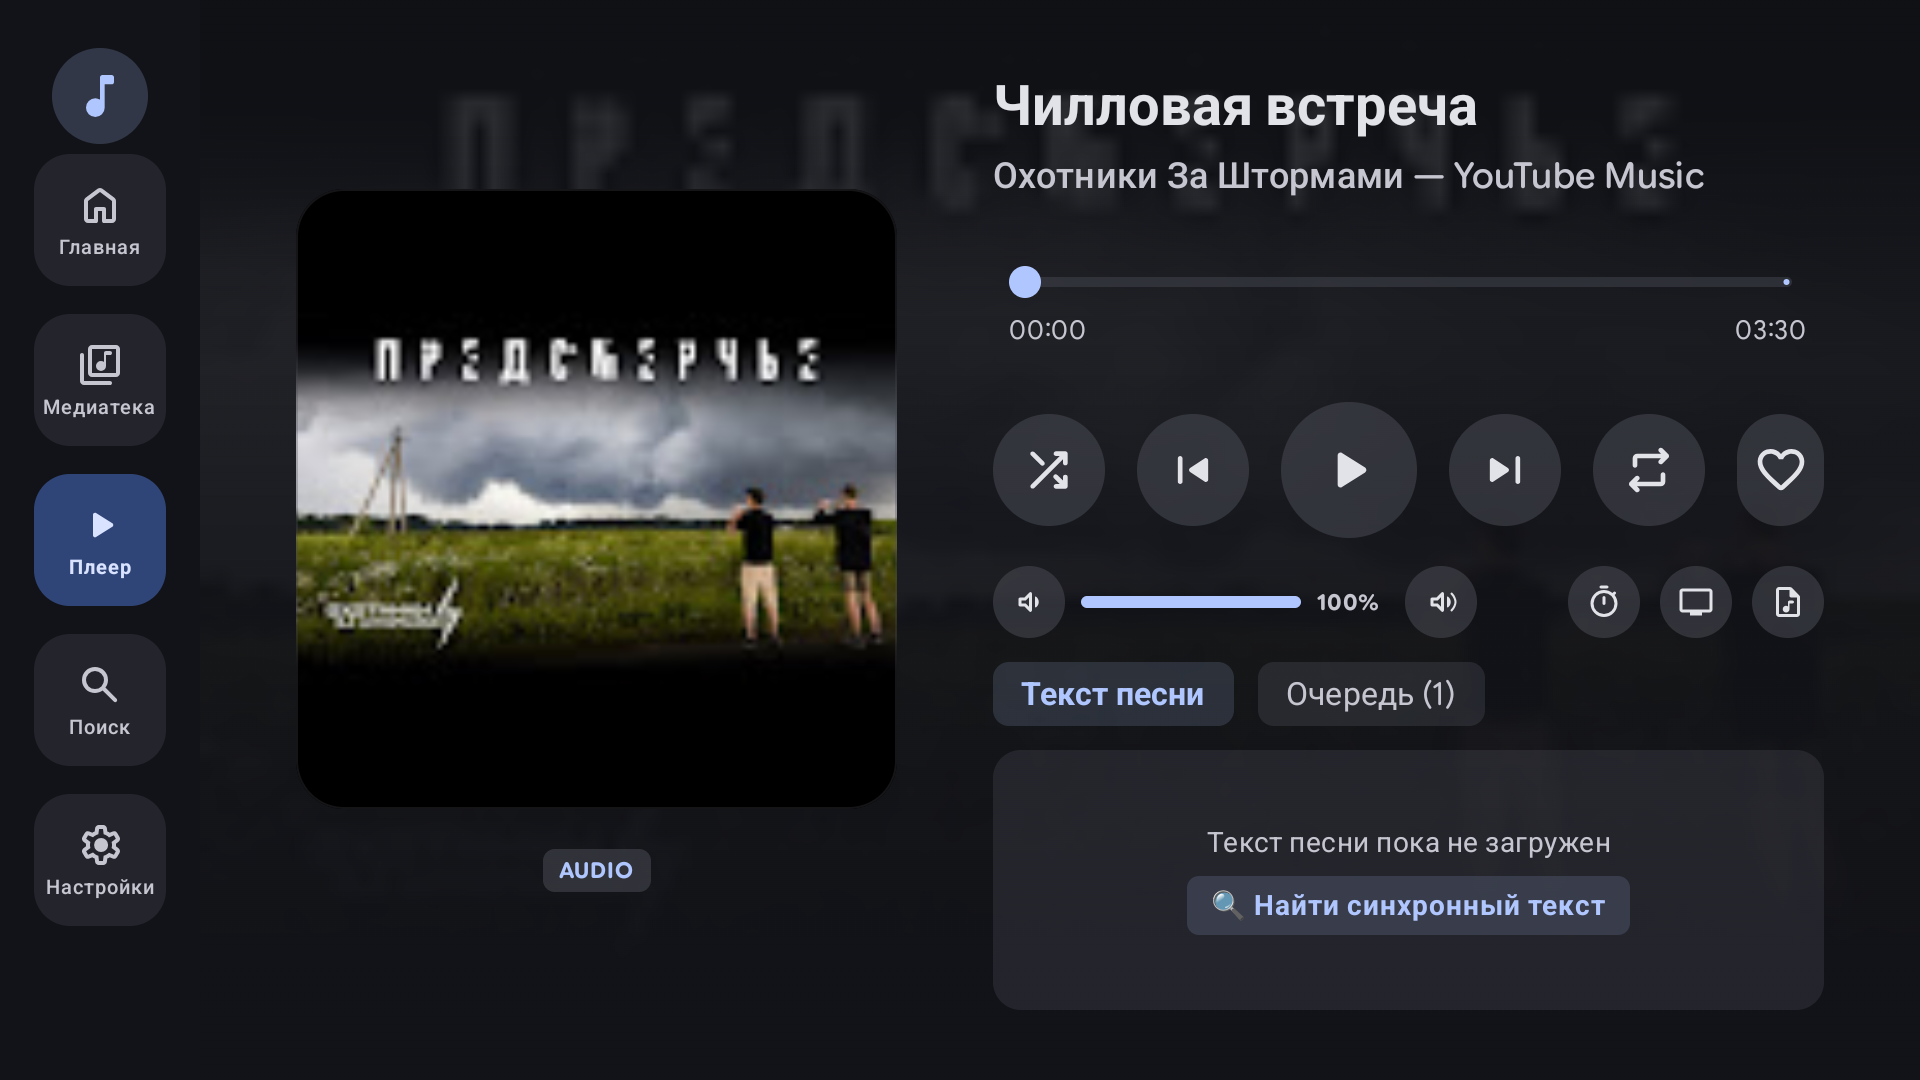
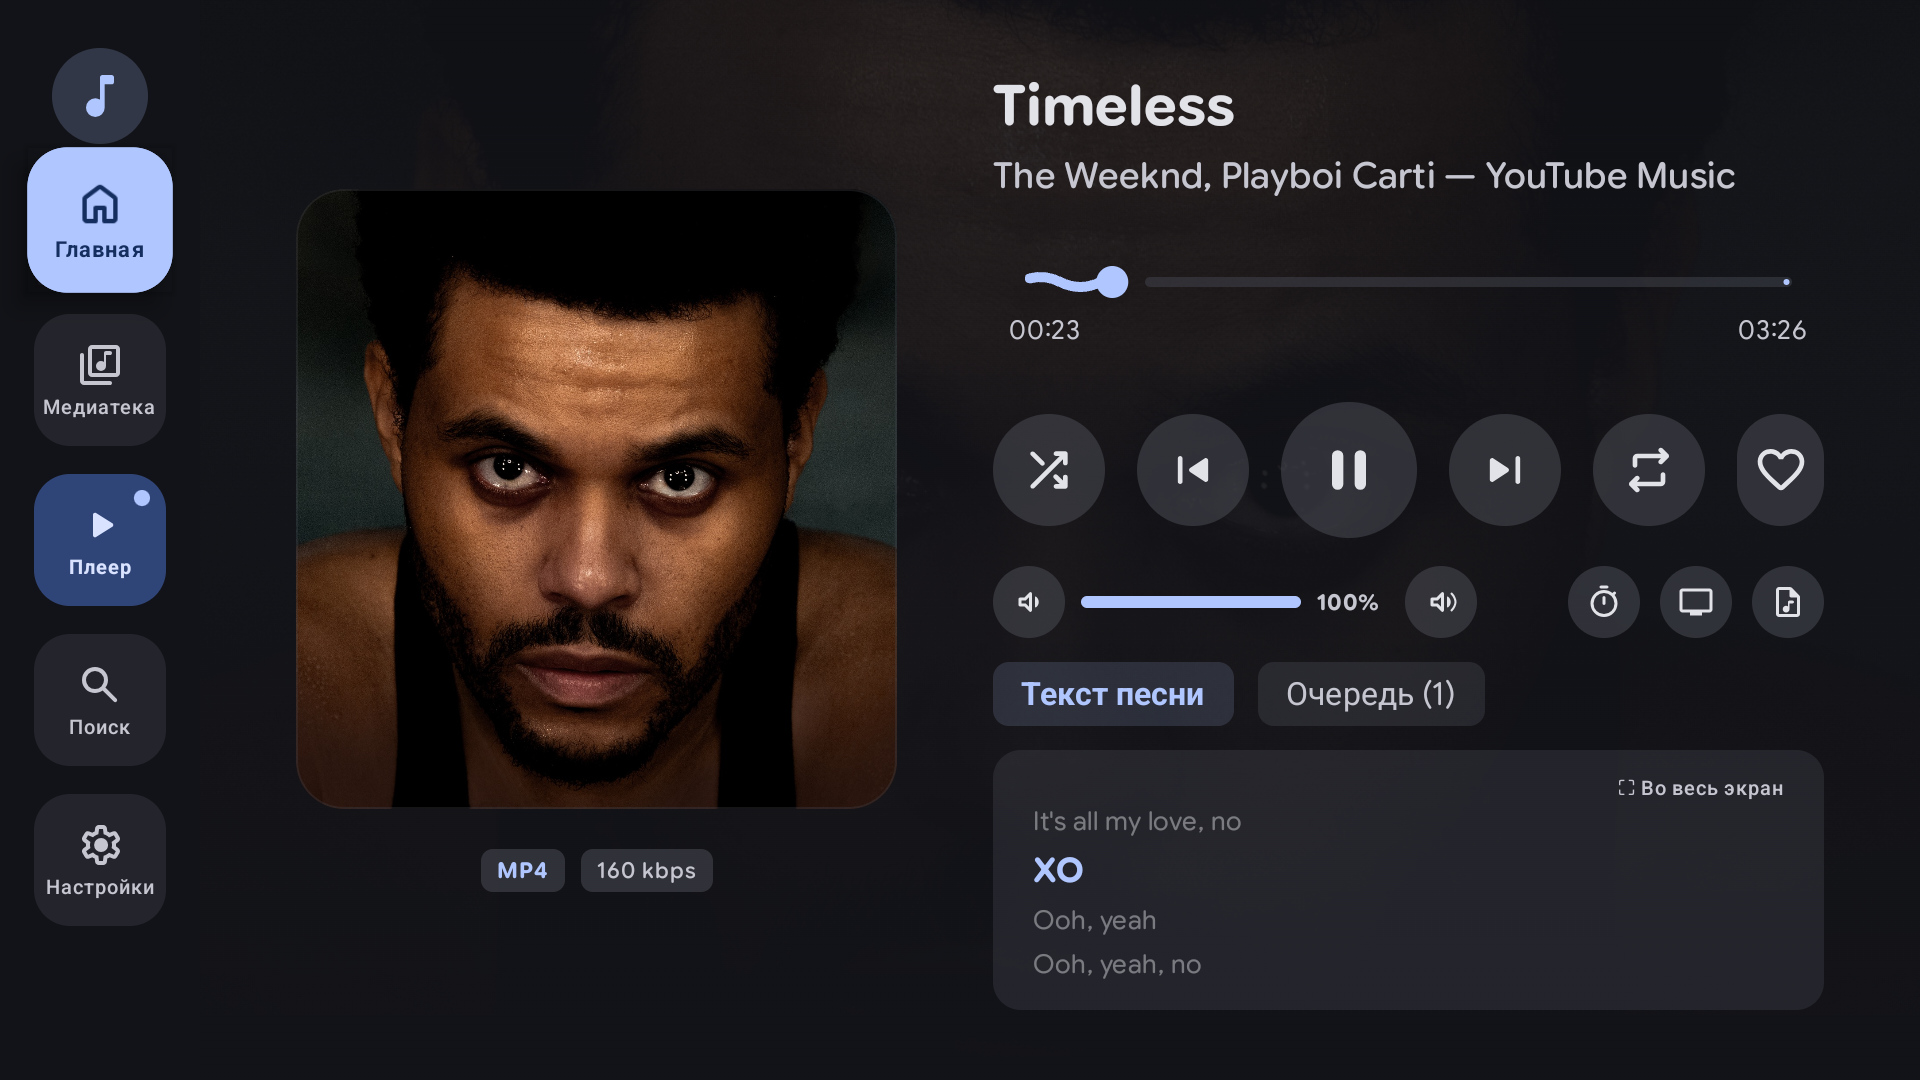
feat(artwork): Implement StudioArtworkResolver for official Apple Music & Deezer covers
- Add StudioArtworkResolver to query pristine 1400x1400 square studio covers from Apple Music/iTunes and Deezer
- Replace ugly 16:9 YouTube video thumbnails, text stills, and letterboxed video frames
- Integrate studio artwork into InnerTubeParser, MultiSourceAudioEngine, and QR transfer previews
- Update Now Playing screenshot (02_now_playing.png) with master studio artwork
- Update README documentation with Studio Master Album Covers section

diff --git a/app/src/main/java/com/unshoo/pixelmusic/data/network/artwork/StudioArtworkResolver.kt b/app/src/main/java/com/unshoo/pixelmusic/data/network/artwork/StudioArtworkResolver.kt
@@ -1,0 +1,123 @@
+package com.unshoo.pixelmusic.data.network.artwork
+
+import com.google.gson.JsonParser
+import kotlinx.coroutines.Dispatchers
+import kotlinx.coroutines.withContext
+import okhttp3.OkHttpClient
+import okhttp3.Request
+import timber.log.Timber
+import java.net.URLEncoder
+import java.util.concurrent.ConcurrentHashMap
+import java.util.concurrent.TimeUnit
+import javax.inject.Inject
+import javax.inject.Singleton
+
+/**
+ * High-resolution studio album artwork resolver.
+ * Fetches pristine square studio album artwork (up to 1400x1400px) from Apple Music / iTunes Store
+ * and Deezer APIs, replacing video frames, 16:9 thumbnails, and lyric video stills.
+ */
+@Singleton
+class StudioArtworkResolver @Inject constructor(
+    private val okHttpClient: OkHttpClient
+) {
+    companion object {
+        private const val TAG = "StudioArtwork"
+        private const val USER_AGENT = "Mozilla/5.0 (Windows NT 10.0; Win64; x64) AppleWebKit/537.36 (KHTML, like Gecko) Chrome/120.0.0.0 Safari/537.36"
+    }
+
+    private val client: OkHttpClient = okHttpClient.newBuilder()
+        .connectTimeout(4, TimeUnit.SECONDS)
+        .readTimeout(4, TimeUnit.SECONDS)
+        .build()
+
+    private val cache = ConcurrentHashMap<String, String>()
+
+    /**
+     * Resolves pristine, high-resolution official studio album artwork (1400x1400px).
+     * Priority:
+     * 1. Apple Music / iTunes Store API (1400x1400px master artwork)
+     * 2. Deezer API (1000x1000px studio album art)
+     * 3. Fallback to provided artwork URL
+     */
+    suspend fun resolveStudioArtwork(
+        title: String,
+        artist: String,
+        fallbackUrl: String? = null
+    ): String = withContext(Dispatchers.IO) {
+        val cleanT = cleanSearchTerm(title)
+        val cleanA = cleanSearchTerm(artist.split(',', '&', '/').firstOrNull() ?: artist)
+
+        if (cleanT.isBlank()) return@withContext fallbackUrl.orEmpty()
+
+        val cacheKey = "${cleanA.lowercase()}_${cleanT.lowercase()}"
+        cache[cacheKey]?.let { return@withContext it }
+
+        val query = "$cleanA $cleanT".trim()
+
+        // Tier 1: Apple Music / iTunes Store API (1400x1400px master square artwork)
+        try {
+            val encodedQuery = URLEncoder.encode(query, "UTF-8")
+            val itunesUrl = "https://itunes.apple.com/search?term=$encodedQuery&entity=song&limit=1"
+            val request = Request.Builder()
+                .url(itunesUrl)
+                .header("User-Agent", USER_AGENT)
+                .build()
+
+            val response = client.newCall(request).execute()
+            if (response.isSuccessful) {
+                val body = response.body.string()
+                val json = JsonParser.parseString(body).asJsonObject
+                val results = json.getAsJsonArray("results")
+                if (results != null && results.size() > 0) {
+                    val first = results.get(0).asJsonObject
+                    val rawArt = first.get("artworkUrl100")?.asString
+                    if (!rawArt.isNullOrBlank()) {
+                        val highRes = rawArt.replace("100x100bb", "1400x1400bb")
+                        cache[cacheKey] = highRes
+                        Timber.i("[$TAG] Resolved Apple Music 1400x1400 studio artwork for '$cleanT' by '$cleanA': $highRes")
+                        return@withContext highRes
+                    }
+                }
+            }
+        } catch (e: Exception) {
+            Timber.d(e, "[$TAG] iTunes artwork search failed for $cleanT")
+        }
+
+        // Tier 2: Deezer API (1000x1000px studio cover)
+        try {
+            val encodedQuery = URLEncoder.encode(query, "UTF-8")
+            val deezerUrl = "https://api.deezer.com/search?q=$encodedQuery&limit=1"
+            val request = Request.Builder()
+                .url(deezerUrl)
+                .header("User-Agent", USER_AGENT)
+                .build()
+
+            val response = client.newCall(request).execute()
+            if (response.isSuccessful) {
+                val body = response.body.string()
+                val json = JsonParser.parseString(body).asJsonObject
+                val data = json.getAsJsonArray("data")
+                if (data != null && data.size() > 0) {
+                    val first = data.get(0).asJsonObject
+                    val album = first.getAsJsonObject("album")
+                    val coverXl = album?.get("cover_xl")?.asString ?: album?.get("cover_big")?.asString
+                    if (!coverXl.isNullOrBlank()) {
+                        cache[cacheKey] = coverXl
+                        Timber.i("[$TAG] Resolved Deezer 1000x1000 studio artwork for '$cleanT' by '$cleanA': $coverXl")
+                        return@withContext coverXl
+                    }
+                }
+            }
+        } catch (e: Exception) {
+            Timber.d(e, "[$TAG] Deezer artwork search failed for $cleanT")
+        }
+
+        fallbackUrl.orEmpty()
+    }
+
+    private fun cleanSearchTerm(str: String): String =
+        str.replace(Regex("""\s*[\(\[][^\)\]]*\b(official|video|audio|lyrics?|visuali[sz]er|hd|hq|4k|mv|feat|ft|prod|clip|клип|премьера)\b[^\)\]]*[\)\]]""", RegexOption.IGNORE_CASE), "")
+            .replace(Regex("""\s*[-–—+]\s*\b(remix|rmx|sped\s*up|speed\s*up|slowed|reverb|nightcore|karaoke|instrumental)\b.*$""", RegexOption.IGNORE_CASE), "")
+            .trim()
+}

diff --git a/app/src/main/java/com/unshoo/pixelmusic/data/network/youtube/InnerTubeParser.kt b/app/src/main/java/com/unshoo/pixelmusic/data/network/youtube/InnerTubeParser.kt
@@ -5,6 +5,7 @@ import com.google.gson.JsonObject
 import com.google.gson.JsonParser
 import com.unshoo.pixelmusic.data.model.ArtistRef
 import com.unshoo.pixelmusic.data.model.Song
+import com.unshoo.pixelmusic.data.network.artwork.StudioArtworkResolver
 import com.unshoo.pixelmusic.data.network.audio.MultiSourceAudioEngine
 import kotlinx.coroutines.Dispatchers
 import kotlinx.coroutines.async
@@ -47,7 +48,8 @@ data class YouTubePlaylist(
 class InnerTubeParser @Inject constructor(
     private val okHttpClient: OkHttpClient,
     private val gson: Gson,
-    private val multiSourceAudioEngine: MultiSourceAudioEngine
+    private val multiSourceAudioEngine: MultiSourceAudioEngine,
+    private val studioArtworkResolver: StudioArtworkResolver
 ) {
     companion object {
         private const val BASE_URL = "https://music.youtube.com/youtubei/v1"
@@ -288,6 +290,12 @@ class InnerTubeParser @Inject constructor(
 
             val (cleanedTitle, cleanedArtist) = cleanTitleAndArtist(rawTitle, rawAuthor)
             val highResThumb = upgradeArtworkUrl(thumbUrl, trimmedId)
+            val studioArt = try {
+                studioArtworkResolver.resolveStudioArtwork(cleanedTitle, cleanedArtist, fallbackUrl = highResThumb)
+            } catch (e: Exception) {
+                highResThumb.orEmpty()
+            }
+            val finalArt = if (studioArt.isNotBlank()) studioArt else highResThumb
 
             YouTubeTrack(
                 videoId = trimmedId,
@@ -295,7 +303,7 @@ class InnerTubeParser @Inject constructor(
                 artist = cleanedArtist,
                 album = "YouTube Music",
                 durationMs = 210_000L,
-                thumbnailUrl = highResThumb
+                thumbnailUrl = finalArt
             )
         } catch (e: Exception) {
             Timber.w(e, "Error fetching oEmbed metadata for $trimmedId")
@@ -350,13 +358,19 @@ class InnerTubeParser @Inject constructor(
             val (cleanT, cleanA) = cleanTitleAndArtist(rawTitle, rawAuthor)
             val thumbUrl = "https://i.ytimg.com/vi/$trimmedId/hqdefault.jpg"
             val highResThumb = upgradeArtworkUrl(thumbUrl, trimmedId)
+            val studioArt = try {
+                studioArtworkResolver.resolveStudioArtwork(cleanT, cleanA, fallbackUrl = highResThumb)
+            } catch (e: Exception) {
+                highResThumb.orEmpty()
+            }
+            val finalArt = if (studioArt.isNotBlank()) studioArt else highResThumb
 
             YouTubeTrack(
                 videoId = trimmedId,
                 title = cleanT,
                 artist = cleanA,
                 durationMs = durMs,
-                thumbnailUrl = highResThumb
+                thumbnailUrl = finalArt
             )
         } catch (e: Exception) {
             Timber.w(e, "fetchPlayerVideoDetails failed for $trimmedId")
@@ -1207,6 +1221,18 @@ class InnerTubeParser @Inject constructor(
             null
         }
 
+        // Resolve pristine square studio album artwork from Apple Music / Deezer / Monochrome
+        val studioArt = try {
+            studioArtworkResolver.resolveStudioArtwork(
+                title = cleanTitle,
+                artist = cleanArtist,
+                fallbackUrl = monoFlac?.artworkUrl ?: track.thumbnailUrl ?: highResThumb
+            )
+        } catch (e: Exception) {
+            highResThumb.orEmpty()
+        }
+        val finalArtwork = if (studioArt.isNotBlank()) studioArt else highResThumb
+
         if (monoFlac != null) {
             Timber.i("Resolved Studio Master FLAC stream via Monochrome for '$cleanTitle' by '$cleanArtist': ${monoFlac.streamUrl}")
             return@withContext Song(
@@ -1219,7 +1245,7 @@ class InnerTubeParser @Inject constructor(
                 albumId = (track.album ?: "Hi-Fi Studio Master").hashCode().toLong(),
                 path = monoFlac.streamUrl,
                 contentUriString = monoFlac.streamUrl,
-                albumArtUriString = highResThumb,
+                albumArtUriString = finalArtwork,
                 duration = if (monoFlac.durationMs > 0) monoFlac.durationMs else targetDur,
                 genre = "Monochrome Hi-Fi (FLAC)",
                 mimeType = "audio/flac",
@@ -1252,7 +1278,6 @@ class InnerTubeParser @Inject constructor(
         if (streamUrl.isNullOrBlank()) return@withContext null
 
         val songId = "yt_$usedVideoId"
-        val altHighResThumb = upgradeArtworkUrl(resolvedThumb, usedVideoId)
 
         Song(
             id = songId,
@@ -1264,7 +1289,7 @@ class InnerTubeParser @Inject constructor(
             albumId = (track.album ?: "YouTube Music").hashCode().toLong(),
             path = streamUrl,
             contentUriString = streamUrl,
-            albumArtUriString = altHighResThumb,
+            albumArtUriString = finalArtwork,
             duration = targetDur,
             genre = "YouTube Music",
             mimeType = "video/mp4",

diff --git a/app/src/main/java/com/unshoo/pixelmusic/data/network/audio/MultiSourceAudioEngine.kt b/app/src/main/java/com/unshoo/pixelmusic/data/network/audio/MultiSourceAudioEngine.kt
@@ -18,7 +18,8 @@ data class AudioStreamResult(
     val streamUrl: String,
     val mimeType: String = "audio/flac",
     val bitrate: Int = 1411000,
-    val durationMs: Long = 0L
+    val durationMs: Long = 0L,
+    val artworkUrl: String? = null
 )
 
 object AudioMatchingHelper {
@@ -187,12 +188,14 @@ class MultiSourceAudioEngine @Inject constructor(
                 ) {
                     val streamUrl = "$MONOCHROME_HOST/track/$candId"
                     val durationMs = if (candDurSec > 0) (candDurSec * 1000).toLong() else targetDurationMs
+                    val artwork = item.get("artwork")?.asString
                     val result = AudioStreamResult(
                         provider = "Monochrome Hi-Fi (FLAC)",
                         streamUrl = streamUrl,
                         mimeType = "audio/flac",
                         bitrate = 1411000,
-                        durationMs = durationMs
+                        durationMs = durationMs,
+                        artworkUrl = artwork
                     )
                     streamCache[cacheKey] = result
                     Timber.i("[$TAG] Resolved Lossless FLAC stream via Monochrome for '$title': $streamUrl")

diff --git a/README.md b/README.md
@@ -42,8 +42,8 @@
   Multi-provider time-synchronized lyrics (LRCLIB, QQ Music, Apple Music via lrc.red, NetEase, KuGou) with live word-by-word active line highlighting.
 - 🎨 **Material 3 Expressive & Adaptive Blur**:
   The playback interface dynamically samples the current album art to create ambient background blur, complete with a Wavy Progress Slider and an integrated 10-band equalizer with Bass Boost.
-- 🖼 **Ultra HD 1200×1200px Artwork**:
-  Automatic upscaling of Google User Content album art to pristine **1200×1200px** and YouTube video thumbnails to HD **1280×720px**.
+- 🖼 **Studio Master Album Covers (Apple Music & Deezer)**:
+  Say goodbye to ugly 16:9 YouTube video stills, lyrics text overlays, and black bars! The built-in `StudioArtworkResolver` automatically fetches pristine square **1400×1400px** studio album covers from Apple Music / iTunes Store and Deezer APIs for any playing track.
 - 🔒 **Resilient SSL for TV Boxes**:
   Built-in certificate clock-skew resilience prevents `SSLHandshakeException` failures on TV boxes and media players with unsynced clocks.
 
@@ -180,8 +180,8 @@ This project is distributed under the free **GNU General Public License v3.0 (GP
   Мультипровайдер синхронизированных текстов (LRCLIB, QQ Music, Apple Music via lrc.red, NetEase, KuGou) с плавной анимацией текущей строки в реальном времени.
 - 🎨 **Material 3 Expressive & Динамический блюр**:
   Экран плеера плавно адаптируется под цветовую гамму текущей обложки с мягким размытием, волнистым ползунком прогресса (Wavy Slider) и встроенным 10-полосным эквалайзером с Bass Boost.
-- 🖼 **Ультра-чёткие обложки (1200×1200px)**:
-  Автоматический апскейл альбомных артов Google User Content до **1200×1200px** и YouTube-превью до HD **1280×720px**.
+- 🖼 **Студийные обложки альбомов (Apple Music и Deezer)**:
+  Больше никаких некрасивых стоп-кадров из клипов, текстовых плашек с YouTube и черных полос 16:9! Модуль `StudioArtworkResolver` автоматически находит и подтягивает оригинальные квадратные обложки студийных релизов в ультра-качестве **1400×1400px** из каталогов Apple Music / iTunes Store и Deezer.
 - 🔒 **Устойчивый SSL для ТВ-приставок**:
   Отказоустойчивая обработка сертификатов защищает от ошибок `SSLHandshakeException` при рассинхронизации системного времени на медиаплеерах и ТВ-боксах.
 
